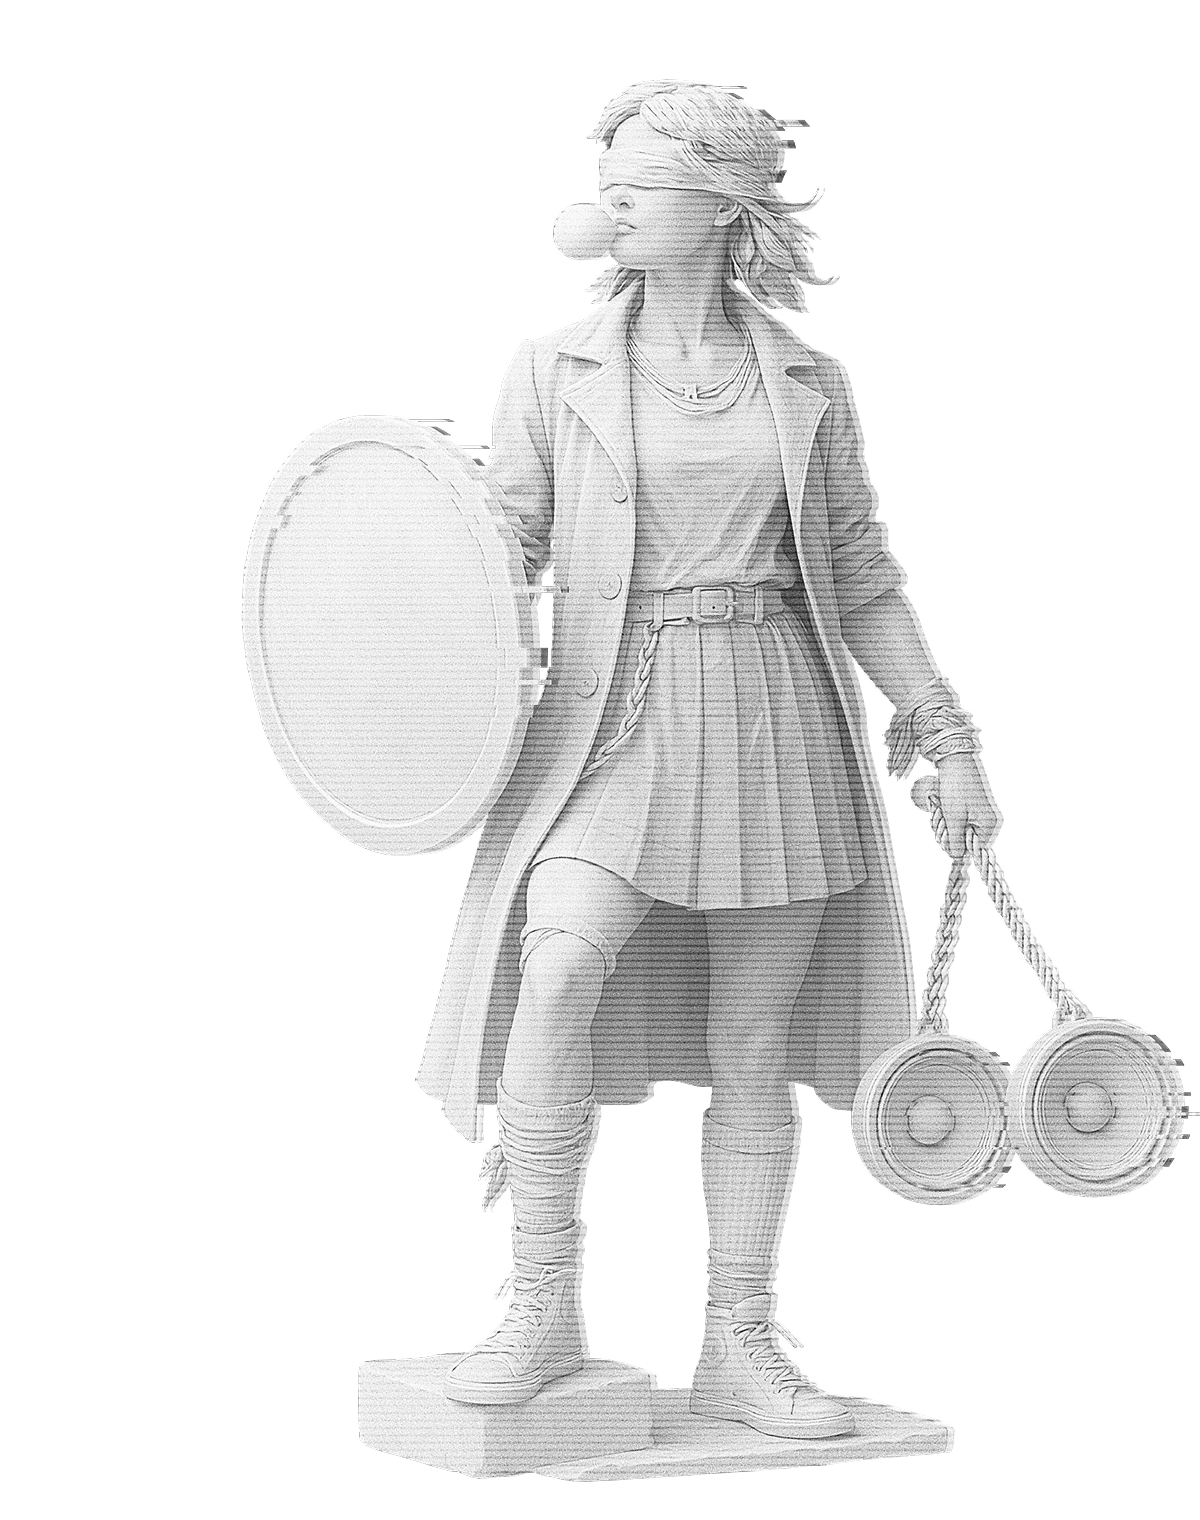
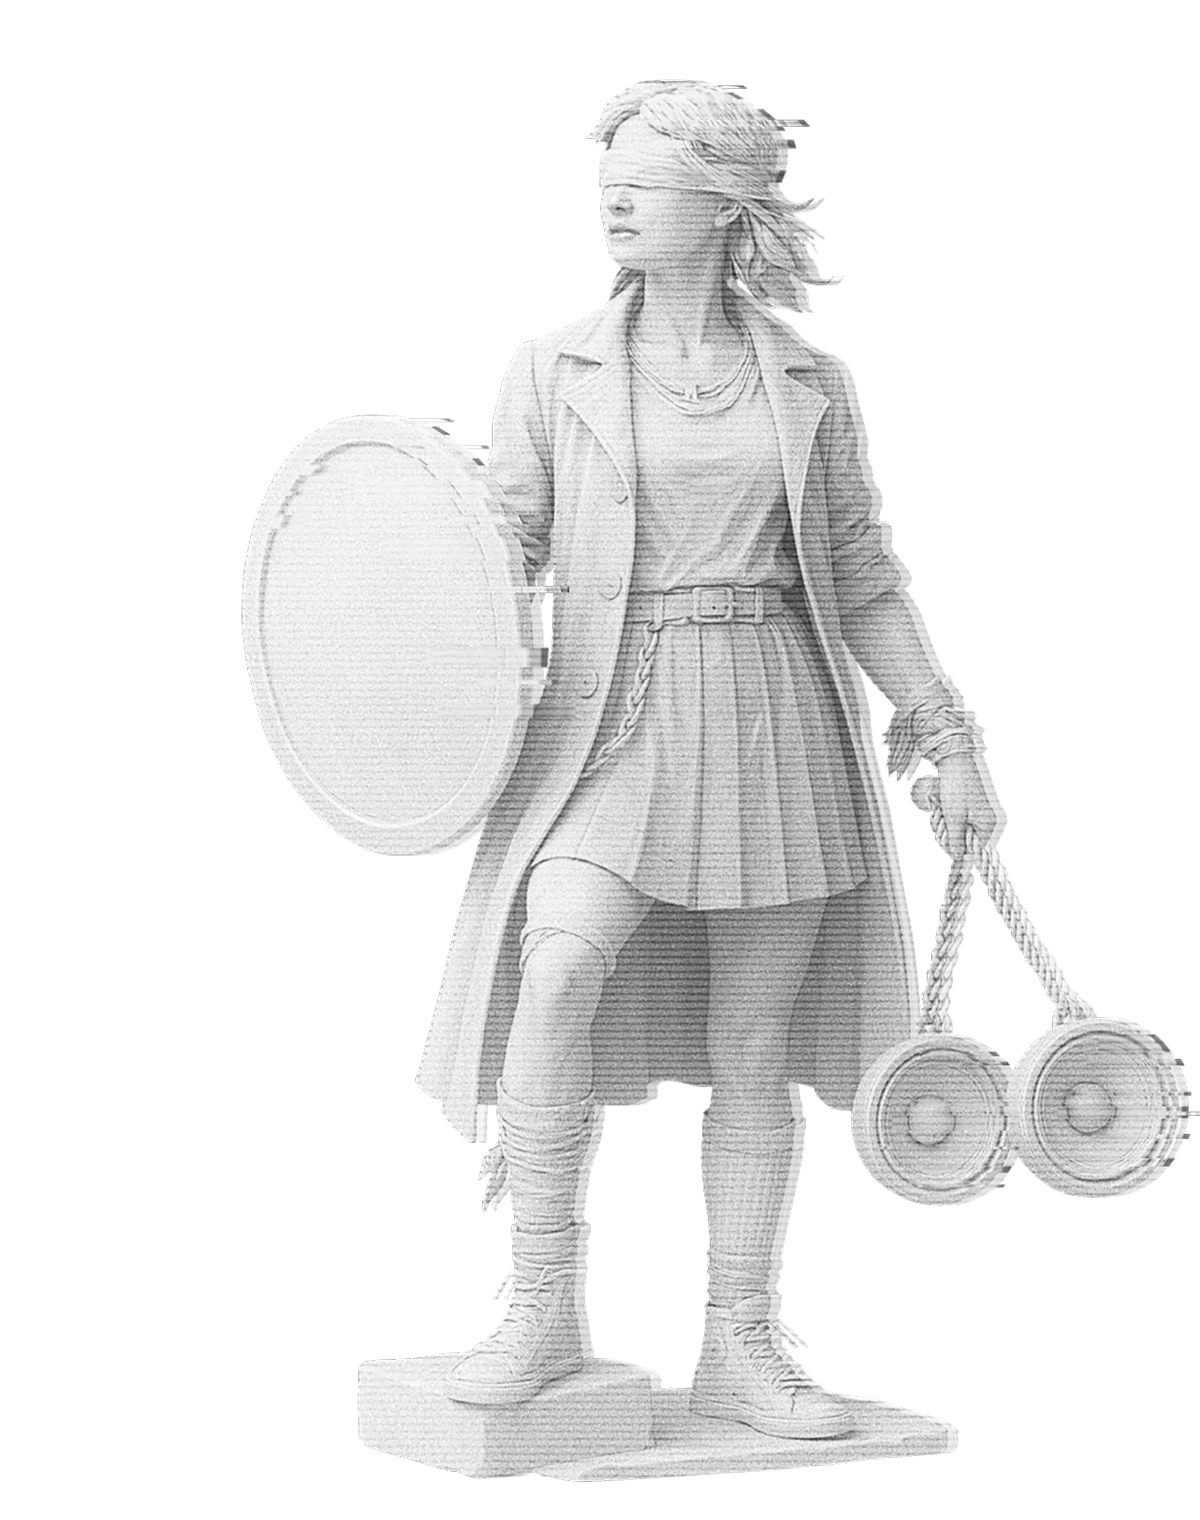
Replace hero image, add supported by

Changed region(s): [[0.3083, 0.0618, 1.0, 0.9895]]

diff --git a/src/lib/components/Header.svelte b/src/lib/components/Header.svelte
@@ -35,9 +35,9 @@ function toggleMenu() {
             <a href="/#faqs" class="px-4 py-2 hover:text-cyan-300">FAQs</a>
             <a href="https://habla.news/u/_@jeffg.fyi" class="px-4 py-2 hover:text-cyan-300">Updates</a>
             <a href="https://github.com/parres-hq/whitenoise?tab=readme-ov-file#contributing" class="px-4 py-2 hover:text-cyan-300">Developers</a>
-            <a href="https://github.com/parres-hq/whitenoise/releases" target="_blank" class="px-4 py-2 hover:text-cyan-300 border-1 border-glitch-800 hover:border-cyan-300 flex flex-row gap-2 items-center">
-                Download
-                <Download size={20} class="w-5 h-5" />
+            <a href="/" class="px-4 py-2 hover:text-cyan-300 border-1 border-glitch-800 hover:border-cyan-300 flex flex-row gap-2 items-center">
+                Coming Soon
+                <!-- <Download size={20} class="w-5 h-5" /> -->
             </a>
         </nav>
     </div>
@@ -61,9 +61,9 @@ function toggleMenu() {
                     <a href="https://github.com/parres-hq/whitenoise?tab=readme-ov-file#contributing" class="px-4 py-2 hover:text-cyan-300" onclick={toggleMenu}>Developers</a>
                 </div>
                 <div class="flex flex-col items-center gap-y-2 pb-10 px-4 w-full box-border max-w-full">
-                    <a href="https://github.com/parres-hq/whitenoise/releases" target="_blank" class="w-full max-w-xs bg-cyan-400 text-glitch-950 text-lg font-medium px-4 py-2 flex flex-row gap-2 items-center justify-center hover:bg-cyan-300 transition-colors" onclick={toggleMenu}>
-                        Download
-                        <Download size={20} class="w-5 h-5" />
+                    <a href="/" class="w-full max-w-xs bg-cyan-400 text-glitch-950 text-lg font-medium px-4 py-2 flex flex-row gap-2 items-center justify-center hover:bg-cyan-300 transition-colors" onclick={toggleMenu}>
+                        Coming Soon
+                        <!-- <Download size={20} class="w-5 h-5" /> -->
                     </a>
                 </div>
             </div>

diff --git a/src/routes/+page.svelte b/src/routes/+page.svelte
@@ -114,6 +114,18 @@ let openFaqIndex: number | null = null;
     </div>
 </div>
 
+<div class="max-w-7xl mx-auto w-full px-6 md:px-12 my-8 flex flex-col gap-4 items-center">
+    <h2 class="text-2xl font-medium text-glitch-800">Supported By</h2>
+    <div class="flex flex-col md:flex-row gap-4 md:gap-x-8 my-4">
+        <a href="https://opensats.org" target="_blank" class="py-4 px-8 md:py-6 md:px-12 bg-glitch-950 flex items-center justify-center w-64 hover:bg-glitch-800 transition-colors">
+            <img src="/images/opensats.svg" alt="OpenSats Logo" class="max-w-48 w-40 bg-transparent" />
+        </a>
+        <a href="https://hrf.org" target="_blank" class="py-4 px-8 md:py-6 md:px-12 bg-glitch-950 flex items-center justify-center w-64 hover:bg-glitch-800 transition-colors">
+            <img src="/images/hrf.svg" alt="Human Rights Foundation Logo" class="max-w-64" />
+        </a>
+    </div>
+</div>
+
 <div class="max-w-7xl mx-auto w-full">
     <div class="flex flex-col gap-8 md:gap-12 px-6 md:px-12 py-8 md:py-12 justify-center text-center md:text-left items-center md:items-start">
         {#each featureCards as card}

diff --git a/src/lib/components/DownloadButton.svelte b/src/lib/components/DownloadButton.svelte
@@ -4,7 +4,7 @@ import Download from "carbon-icons-svelte/lib/Download.svelte";
 let { size = 20 }: { size?: 16 | 20 | 24 | 32 } = $props();
 </script>
 
-<a href="https://github.com/parres-hq/whitenoise/releases" target="_blank" class="bg-cyan-300 hover:bg-cyan-400 text-glitch-950 px-6 py-2 text-xl flex flex-row gap-3 items-center font-medium mt-4">
-    Download
-    <Download {size} class="w-5 h-5" />
+<a href="/" class="bg-cyan-300 hover:bg-cyan-400 text-glitch-950 px-6 py-2 text-xl flex flex-row gap-3 items-center font-medium mt-4">
+    Coming Soon
+    <!-- <Download {size} class="w-5 h-5" /> -->
 </a>
